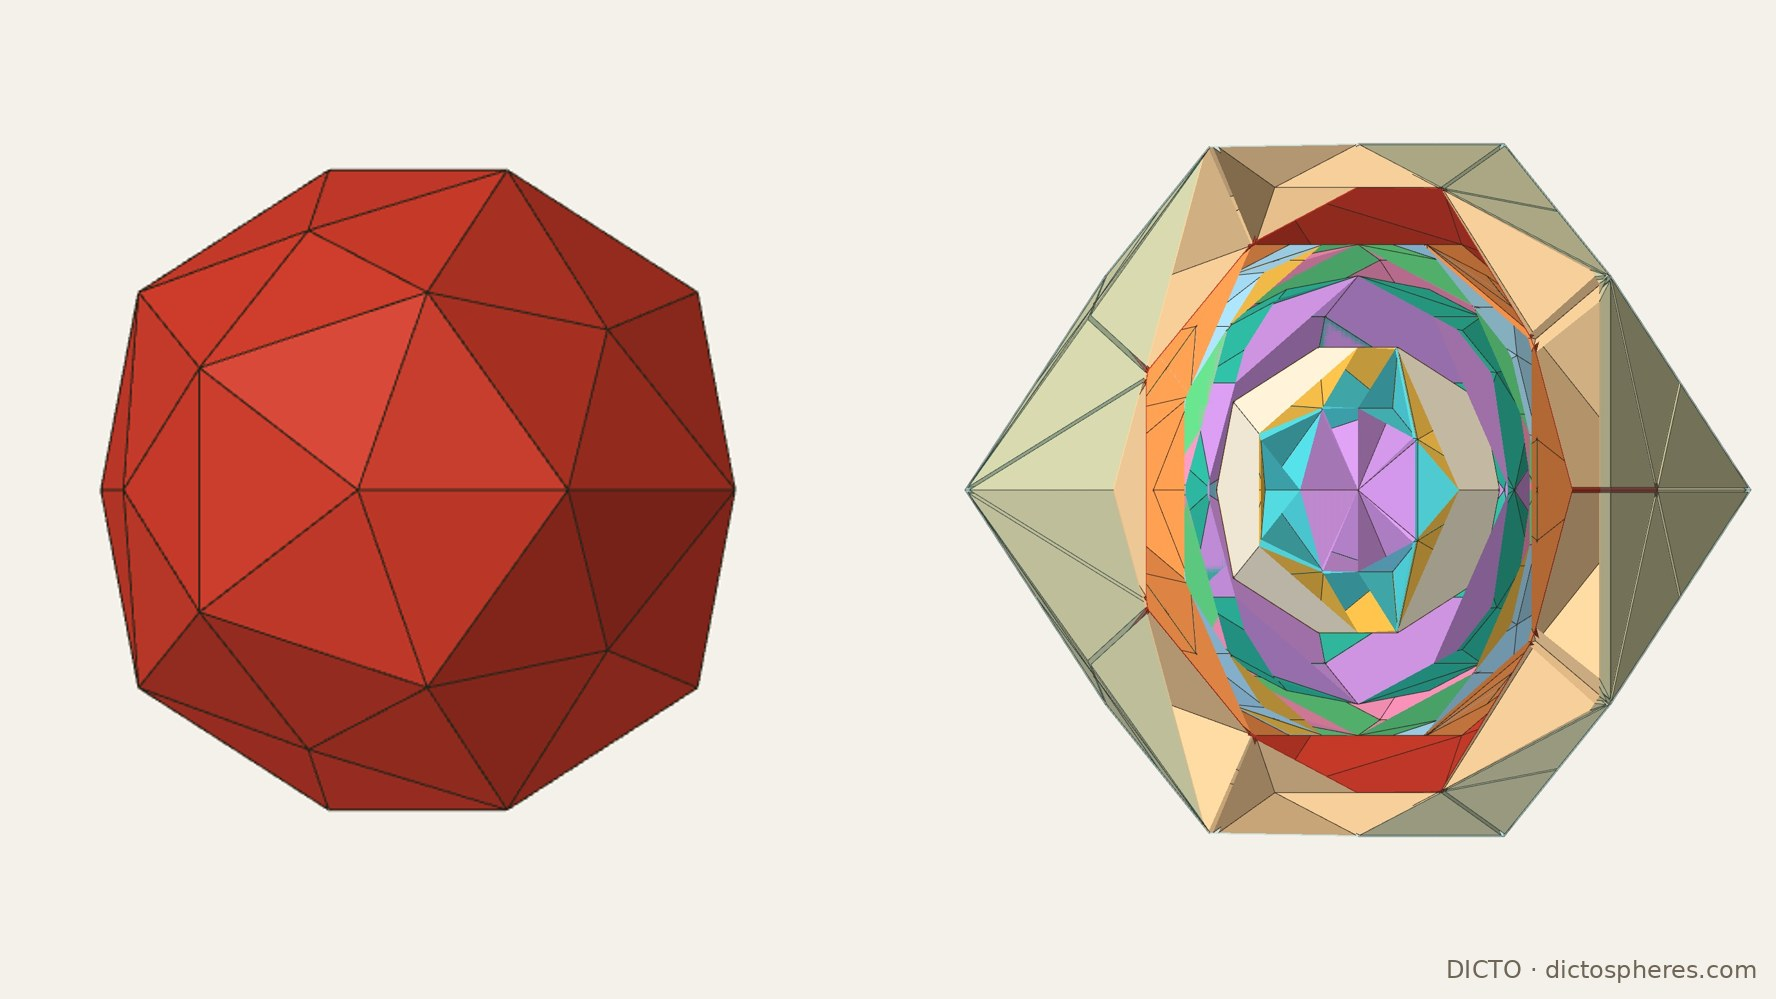
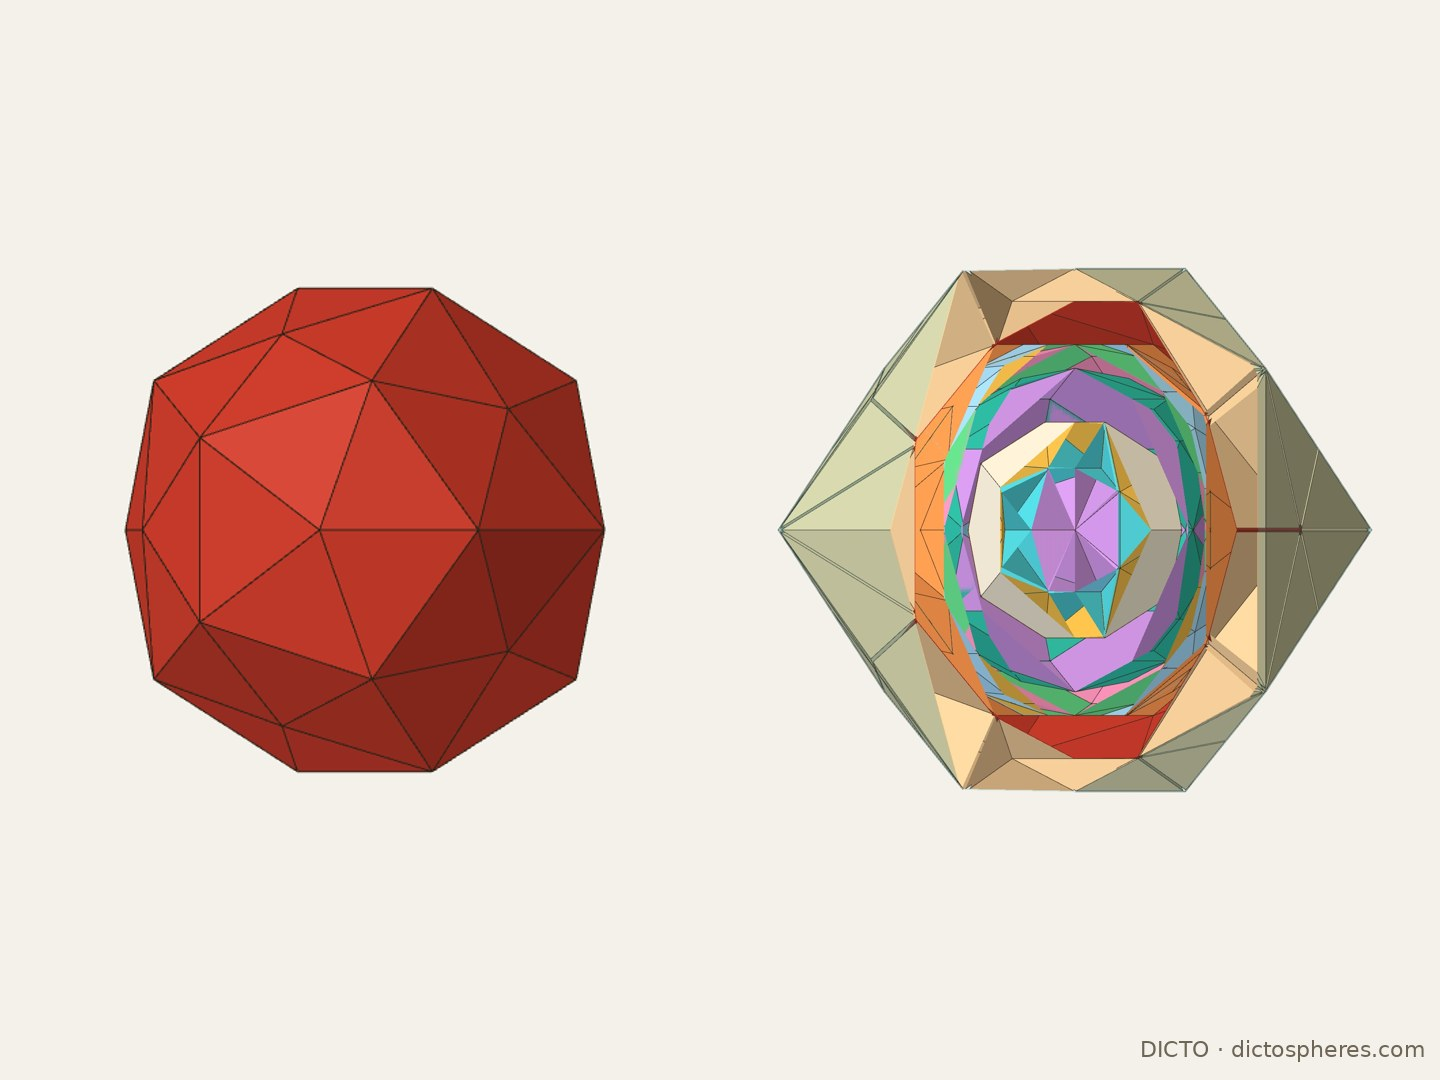
#35a card image at 4:3 so the card does not crop it

diff --git a/index.html b/index.html
@@ -146,7 +146,7 @@
     <p class="disc-note">Short papers by DICTO, with the checks behind every claim.</p>
     <div class="papers">
       <div class="paper feature"><img src="papers/vajrayana.jpg?v=2" alt="Vajrayana: the Cleo star build pulled apart, assembled inside the dodecahedron D′, and in the cycle; below, the twelve stations of the golden cycle at true scale" loading="eager" width="1776" height="999"><span class="t"><span class="num">#35</span> Vajrayana</span><span class="s">A companion to Progenitors. The dodecahedron returns inside the golden cycle as the hull of DICTO's Cleo star, filled exactly by 82 pieces of four kinds. The last loose step, from the rhombic triacontahedron to the next icosahedron, is closed by a new solid that touches both, the DICTO Metaxyhexecontahedron, each of its two layers one kind of piece. The cycle grows to twelve stations. Exact in every step.</span><span class="pdoi"><a class="doi-badge" href="https://doi.org/10.5281/zenodo.23429911" title="DICTO DOI, always the newest version"><span>DICTO DOI</span><span>10.5281/zenodo.23429911</span></a></span><span class="btns"><a class="btn" href="https://doi.org/10.5281/zenodo.23429911">Read paper</a><a class="btn" href="https://kaleidohedra.dictospheres.com/?open=vajrayana">View in app</a></span></div>
-      <div class="paper"><img src="papers/metaxyhexecontahedron.jpg" alt="The DICTO Metaxyhexecontahedron alone, and in the twelve-station golden cycle between the rhombic triacontahedron and the next icosahedron" loading="lazy" width="1776" height="999"><span class="t"><span class="num">#35a</span> The DICTO Metaxyhexecontahedron</span><span class="s">The solid in the last gap of the golden cycle: the hull of an icosahedron and a dodecahedron whose edges stand exactly at 9/φ⁴. 60 triangles, an insphere, no midsphere; it touches the rhombic triacontahedron and the next icosahedron, each of its two layers one kind of piece. A short introduction, exact in every number.</span><span class="pdoi"><a class="doi-badge" href="https://doi.org/10.5281/zenodo.23430864" title="DICTO DOI, always the newest version"><span>DICTO DOI</span><span>10.5281/zenodo.23430864</span></a></span><span class="btns"><a class="btn" href="https://doi.org/10.5281/zenodo.23430864">Read paper</a><a class="btn" href="https://kaleidohedra.dictospheres.com/?open=vajrayana">View in app</a></span></div>
+      <div class="paper"><img src="papers/metaxyhexecontahedron.jpg?v=2" alt="The DICTO Metaxyhexecontahedron alone, and in the twelve-station golden cycle between the rhombic triacontahedron and the next icosahedron" loading="lazy" width="1440" height="1080"><span class="t"><span class="num">#35a</span> The DICTO Metaxyhexecontahedron</span><span class="s">The solid in the last gap of the golden cycle: the hull of an icosahedron and a dodecahedron whose edges stand exactly at 9/φ⁴. 60 triangles, an insphere, no midsphere; it touches the rhombic triacontahedron and the next icosahedron, each of its two layers one kind of piece. A short introduction, exact in every number.</span><span class="pdoi"><a class="doi-badge" href="https://doi.org/10.5281/zenodo.23430864" title="DICTO DOI, always the newest version"><span>DICTO DOI</span><span>10.5281/zenodo.23430864</span></a></span><span class="btns"><a class="btn" href="https://doi.org/10.5281/zenodo.23430864">Read paper</a><a class="btn" href="https://kaleidohedra.dictospheres.com/?open=vajrayana">View in app</a></span></div>
       <div class="paper feature"><img src="papers/progenitors.jpg" alt="Progenitors: the golden nine-station cycle with the Ogdoecontahedron in the dodecahedron's place, cut away and sliced through the centre" loading="eager" width="1776" height="999"><span class="t"><span class="num">#34</span> Progenitors</span><span class="s">The DICTO Hecatodihedron and Ogdoecontahedron as a twin pair. On their own they never close golden: tight nestings with their classical relatives are governed by 3. Set into the Spheres of Dharma in the dodecahedron's place, they close it again on φ⁹, and the cycle holds the core and hull of two dual compounds. Exact in every step.</span><span class="pdoi"><a class="doi-badge" href="https://doi.org/10.5281/zenodo.23413184" title="DICTO DOI, always the newest version"><span>DICTO DOI</span><span>10.5281/zenodo.23413184</span></a></span><span class="btns"><a class="btn" href="https://doi.org/10.5281/zenodo.23413184">Read paper</a></span></div>
       <div class="paper feature"><img src="papers/double-vision.jpg" alt="Double Vision: the interlock of both cycles in its two settings, a slice removed to show the layers and the next turn inside" loading="eager" width="1920" height="1080"><span class="t"><span class="num">#33</span> Double Vision – Both Cycles in One Space</span><span class="s">The Spheres of Dharma and their inside-out reversal placed in one space. One sphere of reciprocation toggles which shells the two cycles share, and no sphere gives both settings. Cut against each other, the two cycles make one solid of convex pieces, exact in every piece: 536 pieces of 12 kinds per turn in one setting, 502 of 11 in the other.</span><span class="pdoi"><a class="doi-badge" href="https://doi.org/10.5281/zenodo.23407106" title="DICTO DOI, always the newest version"><span>DICTO DOI</span><span>10.5281/zenodo.23407106</span></a></span><span class="btns"><a class="btn" href="https://doi.org/10.5281/zenodo.23407106">Read paper</a><a class="btn" href="https://kaleidohedra.dictospheres.com/?open=doubleVision">View in app</a></span></div>
       <div class="paper feature"><img src="papers/inverted-shells.jpg" alt="Inverted Shells: the great stellated dodecahedron, the reversed Spheres of Dharma cut in half, and its endless core" loading="eager" width="1920" height="1080"><span class="t"><span class="num">#32</span> Inverted Shells: The Spheres of Dharma Turned Inside Out</span><span class="s">Polar reciprocation turns the Spheres of Dharma inside out into a new exact golden cycle, every layer filled by one kind of piece. The great stellated dodecahedron locks into its outer gap at exactly one size, a dual pair fits its inner gap in reverse order, and the cycle repeats inward without end.</span><span class="pdoi"><a class="doi-badge" href="https://doi.org/10.5281/zenodo.23405029" title="DICTO DOI, always the newest version"><span>DICTO DOI</span><span>10.5281/zenodo.23405029</span></a></span><span class="btns"><a class="btn" href="https://doi.org/10.5281/zenodo.23405029">Read paper</a></span></div>
